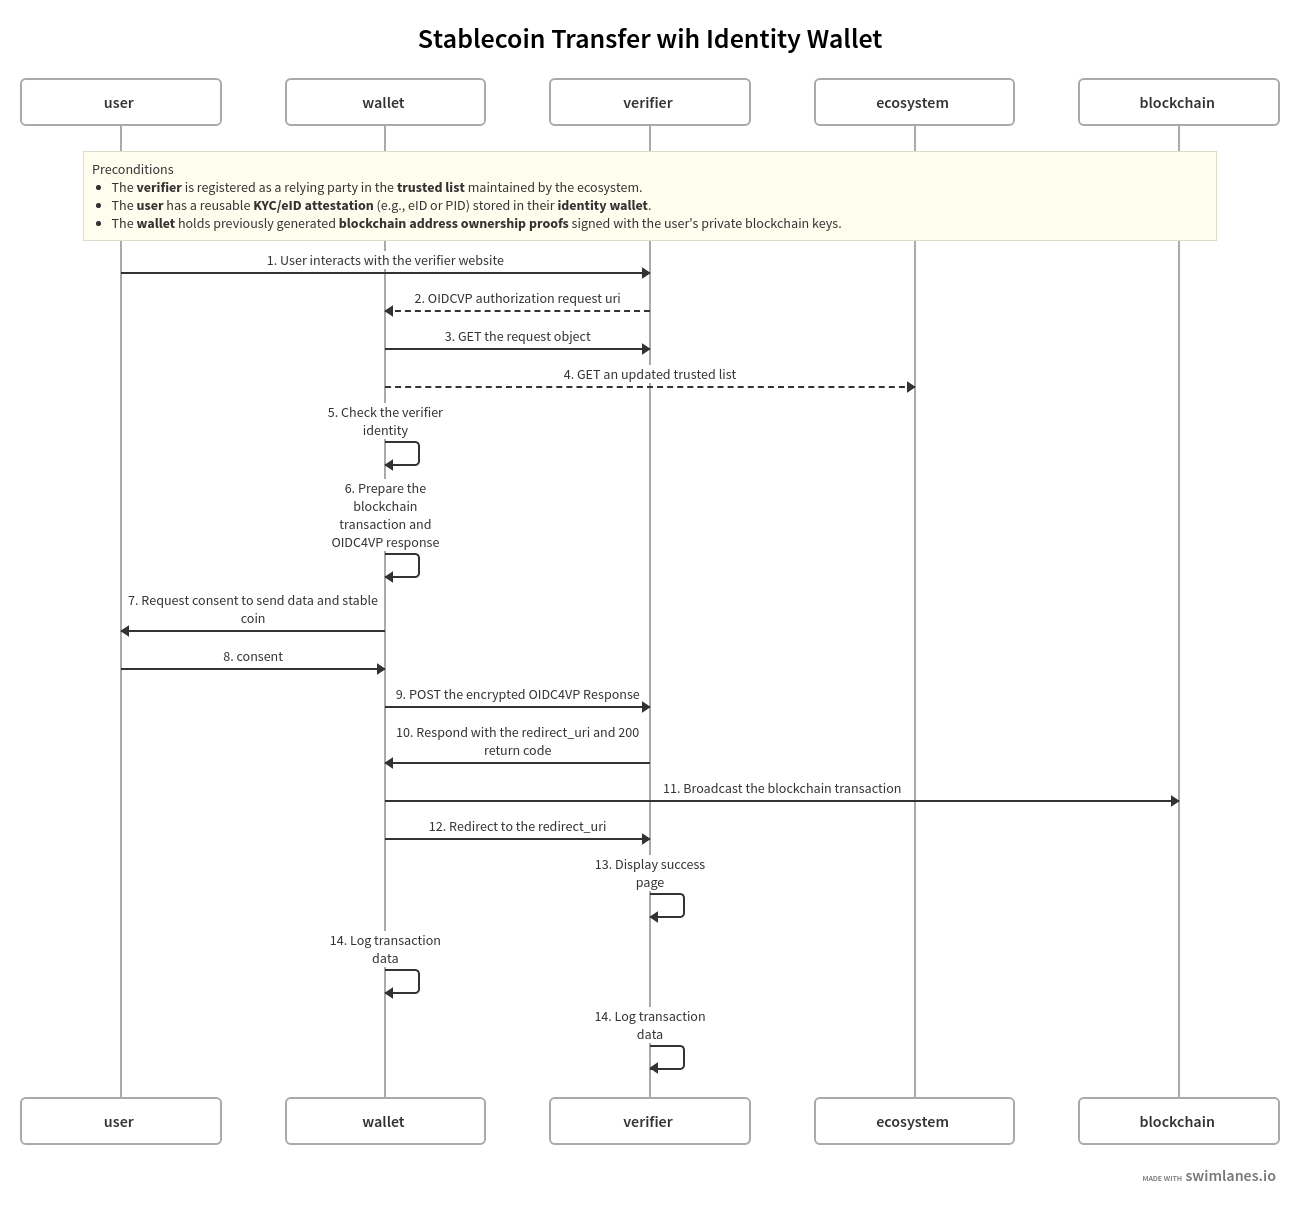
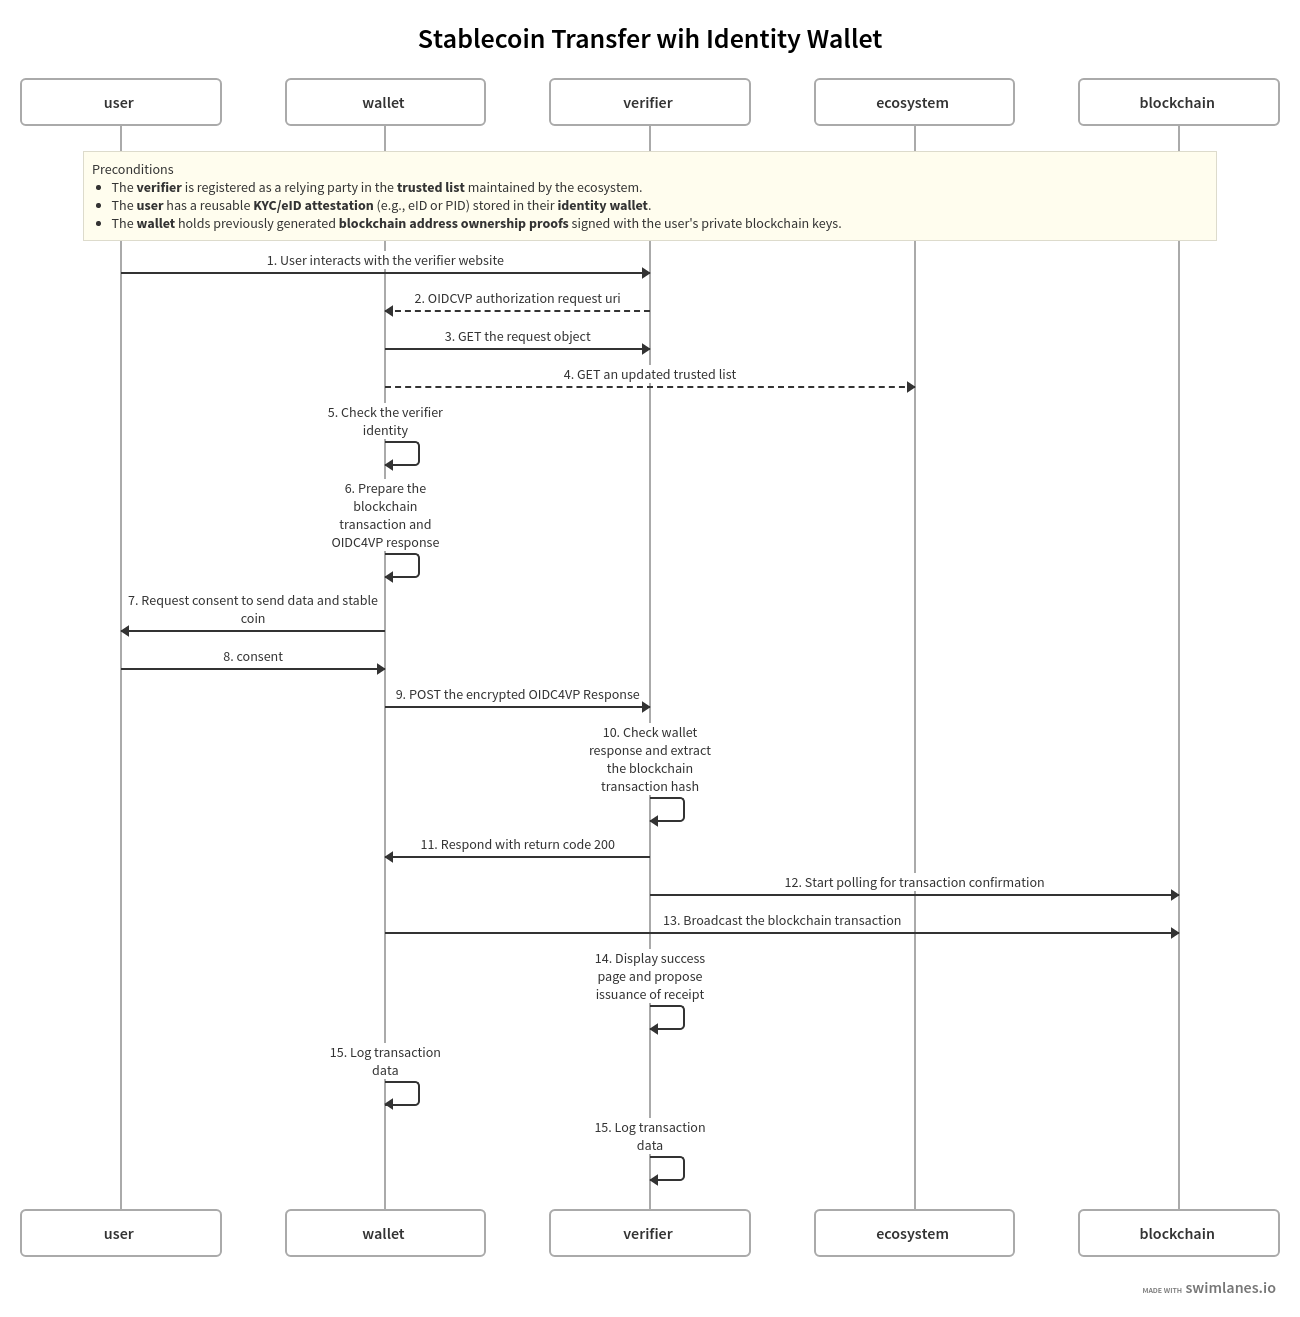
update flow and wallet response

diff --git a/stablecoin_oidc4vp.md b/stablecoin_oidc4vp.md
@@ -1,7 +1,7 @@
 # Crypto Transfers with EUDI compatible Crypto Wallet
 
-- **Version** : 2.0
-- **Date** : 13th August 2025
+- **Version** : 2.1
+- **Date** : 18th October 2025
 - **Status** : Draft
 - **Maintainer** : Altme Identity & Compliance Team
 
@@ -316,26 +316,28 @@ The **Wallet** sends the encrypted **OIDC4VP response** to the **Verifier** via 
 The **Verifier server**:
 
 - Validates all **SD-JWT VCs**, the VPs, and `transaction_data_hash`.
-- Confirms the request integrity, including the **`tx_hash`** binding.
+- Confirms the request integrity, including the **`blockchain_transaction_hash`** binding.
+
+
+#### **11.** Verifier Response
 
 Upon success, it responds with:
 
 - **HTTP 200 OK** status.
-- A **redirect_uri** for final redirection.
 
-#### **11.** Blockchain Transaction Broadcast
+#### **12.** Verifier Starts Polling
+
+- Verifier looks for the blockchain transaction confirmation
+
+#### **13.** Wallet Sends Transaction
 
 Upon receiving the 200 OK, the **Wallet** signs and broadcasts the **crypto transfer** on the blockchain network.
 
-#### **12.** Redirect to Success URI
+#### **14.** Display Success Page
 
-The **Wallet** redirects the User to the **Verifier-provided redirect_uri**, confirming completion.
+The **Verifier** displays a **success page** to the User, confirming the payment and transaction status. Verifier may offer a receipt to the user (issuance flow to consider).
 
-#### **13.** Display Success Page
-
-The **Verifier** displays a **success page** to the User, confirming the payment and transaction status.
-
-#### **14.** Store Transaction Data
+#### **15.** Store Transaction Data
 
 To comply with **MiCA** and the **EU Transfer of Funds Regulation (TFR)**, verifiers and users must retain specific transaction data for auditability, AML/KYC checks, and regulatory reporting. Logging ensures that each crypto payment can be traced back to its source, with all required identity attributes preserved. See Annex.
 
@@ -450,7 +452,6 @@ Payload
   "response_mode": "direct_post.jwt",
   "client_id": "x509_san_dns:Verifier.example.com",
   "response_uri": "https://Verifier.example.com/response",
-  "state": "s-456",
   "nonce": "n-123",
   "presentation_definition": "%7B%22id%22%3A%....2C%22fields%22%3A%5B%7B%22path%22%3A%5B%22%24.gi",
   "transaction_data": ["eyJ0eXBlIjoic3Rh....b2YgZGlnaXRhbCBnb29kcyJ9"],
@@ -494,11 +495,8 @@ Payload
   Uses `x509_san_dns:Verifier.example.com` to bind the request to a verified Verifier identity.
 - **`response_uri`**
   The endpoint on the Verifier’s server where the Wallet should POST the encrypted response.
-- **`state`**
-  A random string to maintain state between request and response.
-  Protects against CSRF attacks.
 - **`nonce`**
-  A unique value to prevent replay attacks and link the response to this request.
+  A unique value to prevent replay attacks and link the response to this request. Verifier can use the nonce to bind the wallet response.
 - **`presentation_definition`or `dcql_query`**
   A URL-encoded JSON structure defining the types of Verifiable Credentials (VCs) and claims the Verifier requires from the Wallet.
 - **`transaction_data`**
@@ -768,15 +766,6 @@ The presentation definition must URL encoded before being added in the authoriza
       "constraints": {
         "limit_disclosure": "required",
         "fields": [
-         {
-            "path": [
-              "$.vct"
-            ],
-            "filter": {
-              "type": "string",
-              "const": "eu:europa:ec.eudi.pid.1"
-            }
-          },
           { "path": ["$.given_name"]},
           { "path": ["$.family_name"]},
           { "path": ["$.birth_date"]}
@@ -800,15 +789,6 @@ The presentation definition must URL encoded before being added in the authoriza
       },
       "constraints": {
         "fields": [
-         {
-            "path": [
-              "$.vct"
-            ],
-            "filter": {
-              "type": "string",
-              "const": "urn:dev:vct:blockchain-ownership"
-            }
-          },
           { "path": ["$.blockchain_network"] },
           { "path": ["$.wallet_address"] }
         ]
@@ -864,7 +844,7 @@ Content-Type: application/x-www-form-urlencoded
 response=eyJra...9t2LQ
 ```
 
-The Wallet’s response **SHOULD be encrypted as a JWE (JSON Web Encryption)**, depending on the selected Verifier Verifier strategy.
+The Wallet’s response **MAY be encrypted as a JWE (JSON Web Encryption)**, depending on the selected Verifier Verifier strategy.
 
 - When **personal data or sensitive claims are disclosed**, encryption **MUST** be applied to prevent intermediaries (e.g., external API verifiers or payment gateways) from accessing User data.
 - If the Verifier is using a fully **in-house Verifier** with a secure channel (e.g., TLS and direct communication), encryption MAY be optional, depending on the privacy requirements.
@@ -899,9 +879,8 @@ Payload (before encryption)
 {
   "iat": 1734560000,
   "exp": 1734560500,
-  "presentation_submission": "ey....'",
+  "presentation_submission": ".....",
   "vp_token": ["ey...123DR4~", "ey..3456~"],
-  "state": "s-456"
 }
 ```
 
@@ -951,7 +930,7 @@ Payload of the KB JWT attached to the Identity SD-JWT VC with `transaction_data_
   "iat": 1709838604,
   "sd_hash": "Dy-RYwZfaaoC3inJbLslgPvMp09bH-clYP_3qbRqtW4",
   "transaction_data_hashes": [ "fOBUSQvo46yQO-wRwXBcGqvnbKIueISEL961_Sjd4do" ],
[1 lines of base64/hex data omitted]
+  "blockchain_transaction_hashes": [ "BUfdSQvo46yQO56wRwXBcGqvnbKIueISEL961_Sjd4do" ]
 }
 ```
 
@@ -968,8 +947,9 @@ Payload of the KB JWT attached to the Identity SD-JWT VC with `transaction_data_
 - **`transaction_data_hashes`**
   An array of hashes that link the payment transaction data to this KB JWT.
   This ensures the identity proof and the specific crypto transaction are cryptographically tied together, preventing substitution of transaction details.
-- **`tx_hash`**
-  The hash of the unsigned blockchain transaction that will be broadcast.
+- **`blockchain_transaction_hashes`**
+  An array of hashes that link the calculated blockchain transaction to this KB JWT.
+  This allows the verifier to track the blockchain transaction. Notice that the transaction hash is calculated by the wallet before the transaction is sent.
   This binds the identity proof (SD-JWT VC) to a specific blockchain operation, enabling strong integrity and non-repudiation guarantees.
 
 ## Security Considerations
